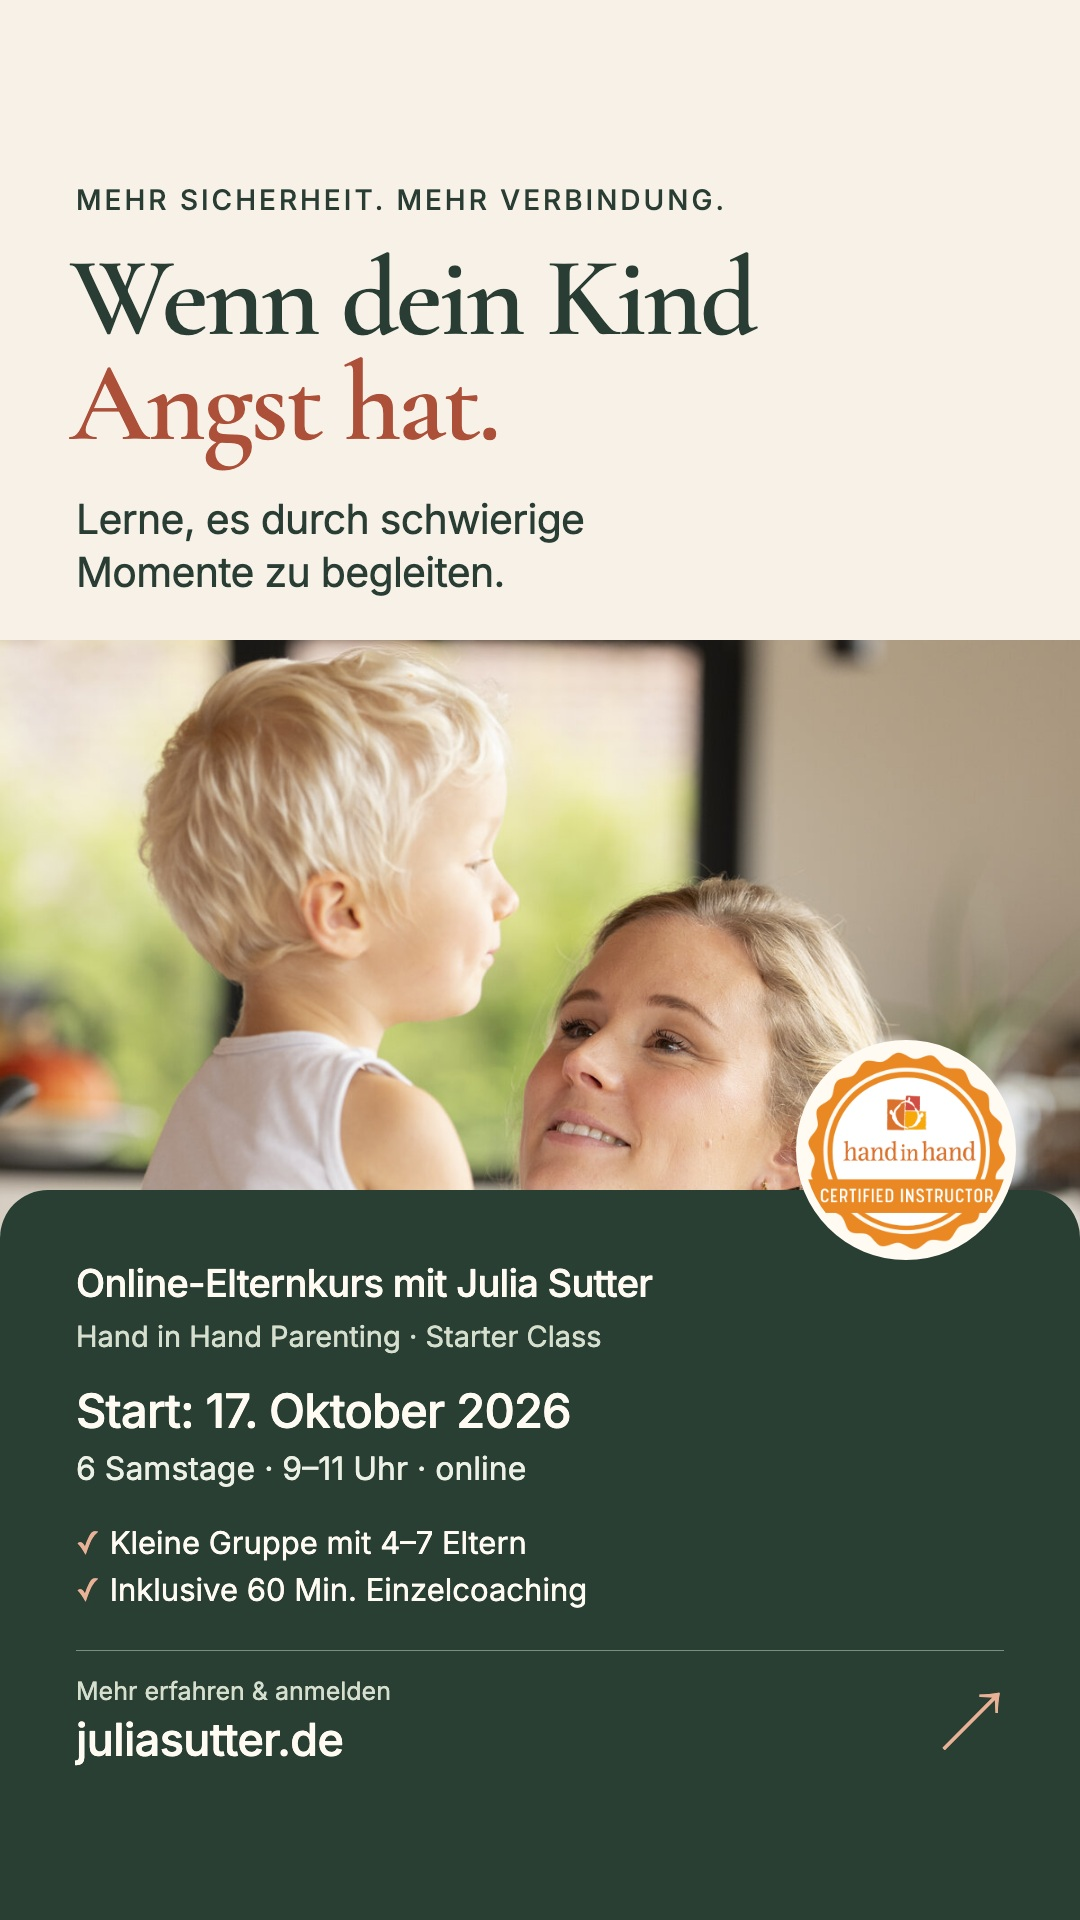
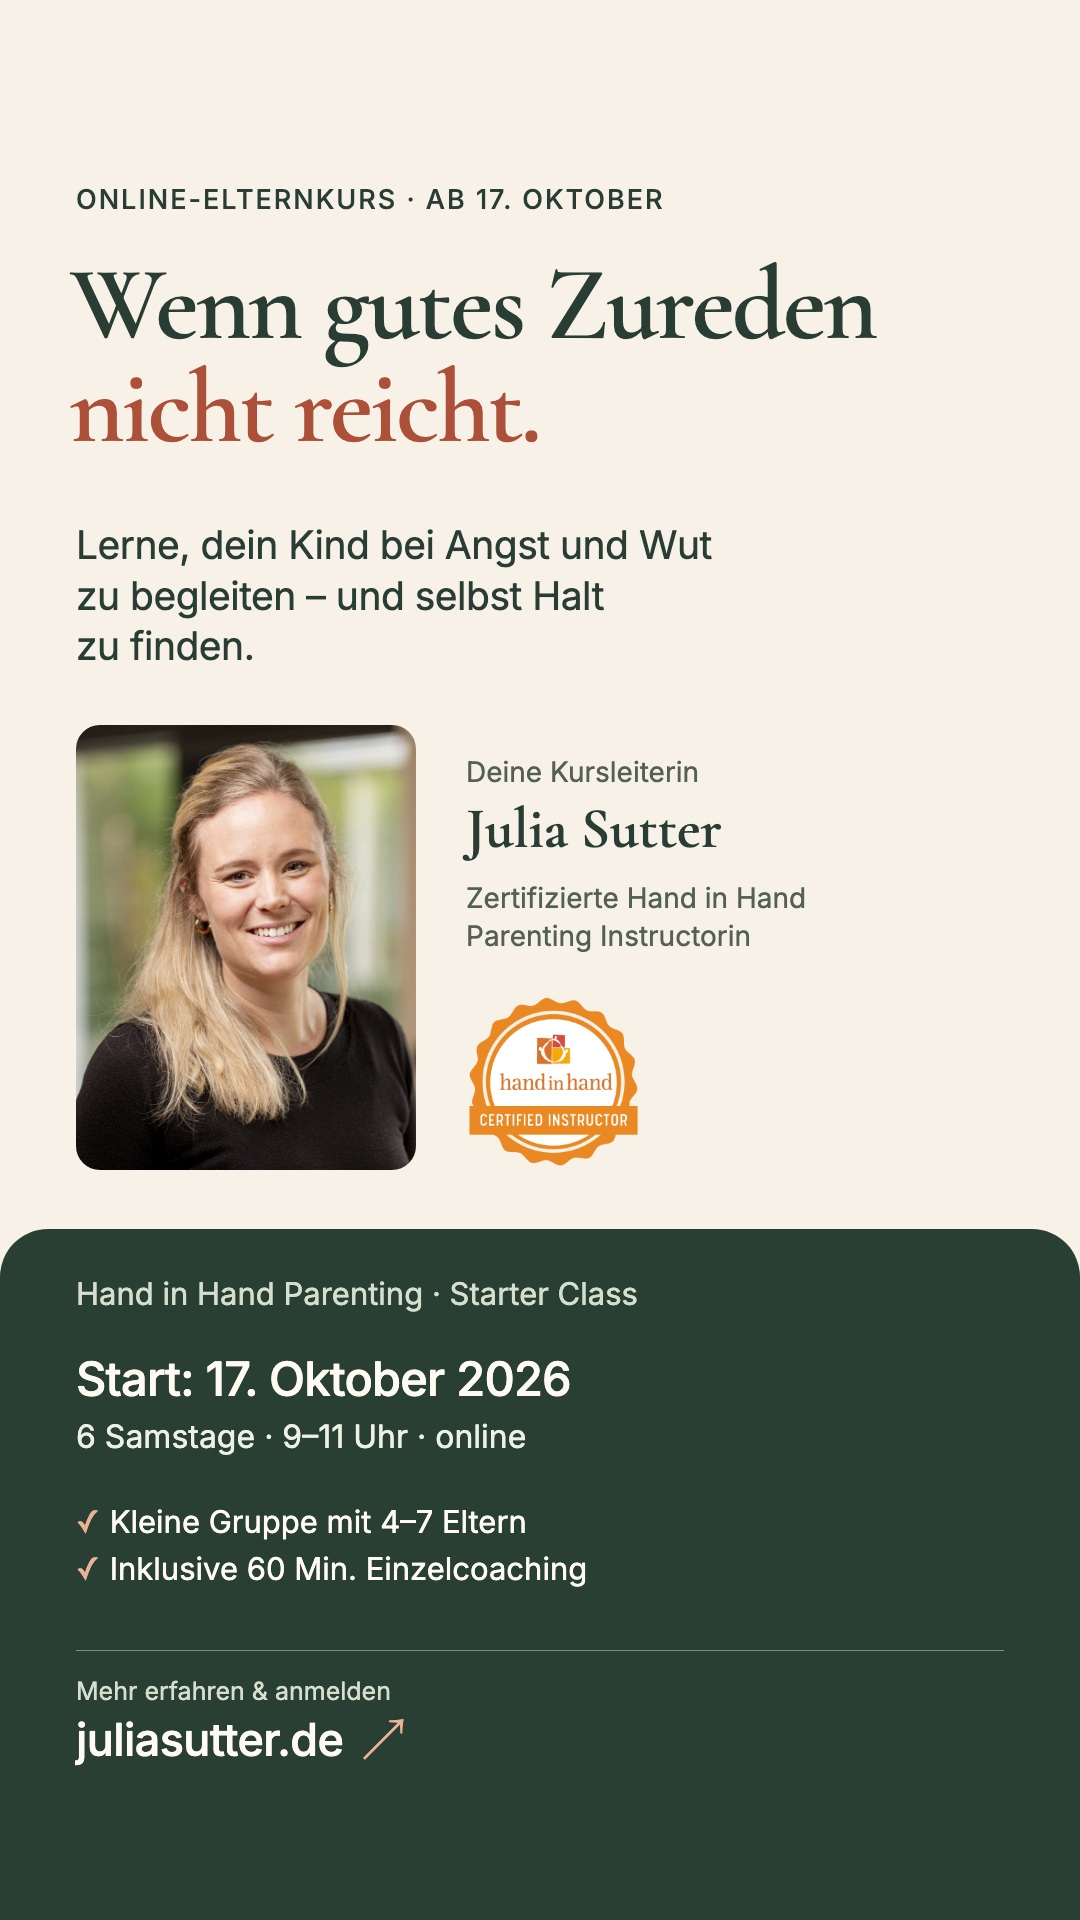
fix: refine course flyer messaging and use Julia portrait

diff --git a/artifacts/oktoberkurs-whatsapp-2026/status.html b/artifacts/oktoberkurs-whatsapp-2026/status.html
@@ -13,37 +13,45 @@
     body { background: #f7f1e7; color: #293d34; font-family: Inter, sans-serif; }
     .canvas { position: relative; width: 1080px; height: 1920px; overflow: hidden; }
     p, h1 { margin: 0; }
-    .eyebrow { position: absolute; top: 183px; left: 76px; font: 500 28px Manrope, sans-serif; letter-spacing: 3px; text-transform: uppercase; }
-    h1 { position: absolute; top: 246px; left: 70px; font: 600 112px/.94 Cormorant, Georgia, serif; letter-spacing: -2.6px; }
+    .eyebrow { position: absolute; top: 183px; left: 76px; font: 500 27px Manrope, sans-serif; letter-spacing: 2px; text-transform: uppercase; }
+    h1 { position: absolute; top: 254px; left: 70px; font: 600 104px/.99 Cormorant, Georgia, serif; letter-spacing: -2.2px; }
     h1 span { color: #ad503a; }
-    .promise { position: absolute; top: 493px; left: 76px; font-size: 41px; line-height: 1.3; letter-spacing: -.7px; }
-    .photo { position: absolute; top: 640px; left: 0; width: 1080px; height: 593px; object-fit: cover; object-position: 50% 10%; }
-    .panel { position: absolute; top: 1190px; bottom: 0; width: 100%; background: #293f34; border-radius: 48px 48px 0 0; }
-    .certificate { position: absolute; top: 1040px; right: 64px; width: 220px; height: 220px; padding: 8px; background: #fffaf2; border-radius: 50%; }
-    .course { position: absolute; left: 76px; top: 1260px; color: #fffaf2; }
-    .course-title { font: 500 38px Manrope, sans-serif; letter-spacing: -.7px; }
-    .method { margin-top: 13px; color: #d6dfce; font-size: 29px; }
-    .schedule { position: absolute; left: 76px; top: 1382px; color: #fffaf2; }
+    .promise { position: absolute; top: 520px; left: 76px; font-size: 39px; line-height: 1.3; letter-spacing: -.5px; }
+    .portrait { position: absolute; top: 725px; left: 76px; width: 340px; height: 445px; border-radius: 24px; overflow: hidden; }
+    .photo { width: 100%; height: 100%; object-fit: cover; object-position: 50% 25%; transform: scale(1.35); transform-origin: 50% 30%; }
+    .instructor { position: absolute; top: 755px; left: 466px; }
+    .instructor-label { font-size: 28px; color: #536052; }
+    .instructor-name { margin-top: 5px; font: 600 57px Cormorant, Georgia, serif; }
+    .credentials { margin-top: 17px; font-size: 28px; line-height: 1.35; color: #536052; }
+    .certificate { position: absolute; top: 994px; left: 466px; width: 174px; height: 174px; }
+    .panel { position: absolute; top: 1229px; bottom: 0; width: 100%; background: #293f34; border-radius: 48px 48px 0 0; }
+    .course { position: absolute; left: 76px; top: 1275px; color: #fffaf2; }
+    .method { color: #d6dfce; font-size: 31px; }
+    .schedule { position: absolute; left: 76px; top: 1350px; color: #fffaf2; }
     .start { font: 500 47px Manrope, sans-serif; letter-spacing: -.8px; }
     .time { margin-top: 10px; font-size: 32px; color: #edf0e5; }
-    .benefits { position: absolute; left: 76px; top: 1520px; color: #fffaf2; font-size: 31px; line-height: 1.5; }
+    .benefits { position: absolute; left: 76px; top: 1499px; color: #fffaf2; font-size: 31px; line-height: 1.5; }
     .benefits span { color: #e9b297; padding-right: 10px; }
-    .cta { position: absolute; left: 76px; right: 76px; top: 1650px; display: flex; align-items: center; justify-content: space-between; border-top: 1px solid #78907f; padding-top: 25px; color: #fffaf2; }
+    .cta { position: absolute; left: 76px; right: 76px; top: 1650px; border-top: 1px solid #78907f; padding-top: 25px; color: #fffaf2; }
     .cta-label { font-size: 25px; color: #d6dfce; }
-    .url { margin-top: 6px; color: #fffaf2; font: 500 45px Manrope, sans-serif; letter-spacing: -.6px; }
-    .arrow { font-size: 64px; line-height: 1; color: #e9b297; }
+    .url { display: inline-flex; align-items: center; gap: 18px; margin-top: 6px; color: #fffaf2; font: 500 45px Manrope, sans-serif; letter-spacing: -.6px; text-decoration: none; }
+    .arrow { font-size: 45px; line-height: 1; color: #e9b297; }
   </style>
 </head>
 <body>
   <main class="canvas" aria-label="Online-Elternkurs mit Julia Sutter ab 17. Oktober 2026">
-    <p class="eyebrow">Mehr Sicherheit. Mehr Verbindung.</p>
-    <h1>Wenn dein Kind<br><span>Angst hat.</span></h1>
-    <p class="promise">Lerne, es durch schwierige<br>Momente zu begleiten.</p>
-    <img class="photo" src="../../assets/images/coaching-connection.jpg" alt="Julia begegnet ihrem Kind auf Augenhöhe">
+    <p class="eyebrow">Online-Elternkurs · ab 17. Oktober</p>
+    <h1>Wenn gutes Zureden<br><span>nicht reicht.</span></h1>
+    <p class="promise">Lerne, dein Kind bei Angst und Wut<br>zu begleiten – und selbst Halt<br>zu finden.</p>
+    <div class="portrait"><img class="photo" src="../../assets/images/julia-headshot.jpg" alt="Porträt von Julia Sutter"></div>
+    <div class="instructor">
+      <p class="instructor-label">Deine Kursleiterin</p>
+      <p class="instructor-name">Julia Sutter</p>
+      <p class="credentials">Zertifizierte Hand in Hand<br>Parenting Instructorin</p>
+    </div>
     <div class="panel"></div>
     <img class="certificate" src="../../assets/images/certified-instructor.png" alt="Hand in Hand Certified Instructor">
     <div class="course">
-      <p class="course-title">Online-Elternkurs mit Julia Sutter</p>
       <p class="method">Hand in Hand Parenting · Starter Class</p>
     </div>
     <div class="schedule">
@@ -55,8 +63,8 @@
       <p><span>✓</span>Inklusive 60 Min. Einzelcoaching</p>
     </div>
     <div class="cta">
-      <div><p class="cta-label">Mehr erfahren &amp; anmelden</p><p class="url">juliasutter.de</p></div>
-      <span class="arrow" aria-hidden="true">↗</span>
+      <p class="cta-label">Mehr erfahren &amp; anmelden</p>
+      <a class="url" href="https://juliasutter.de/">juliasutter.de<span class="arrow" aria-hidden="true">↗</span></a>
     </div>
   </main>
 </body>
